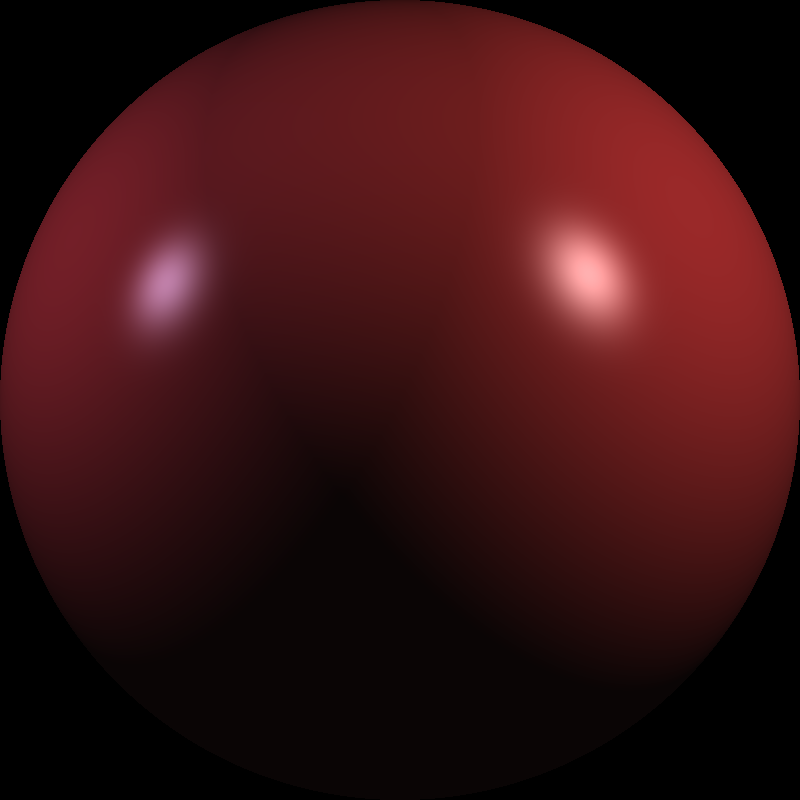
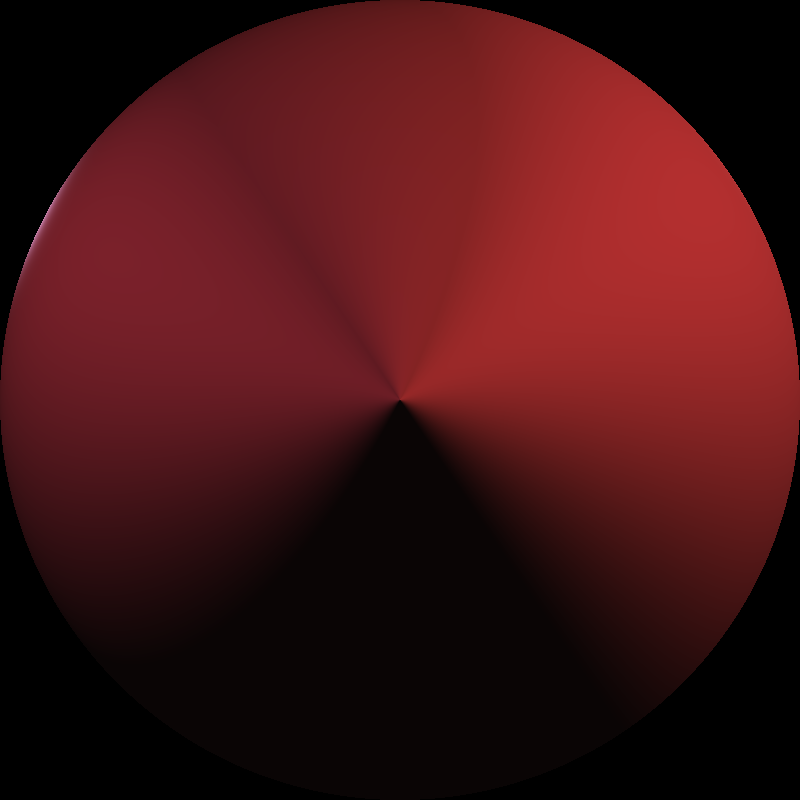
prawie final lista6

Changed region(s): [[0.1562, 0.0, 1.0, 0.7812], [0.0312, 0.2188, 0.0938, 0.3438], [0.8438, 0.7812, 0.9062, 0.8438]]

diff --git a/Rendering_with_Phong_lighting_model/src/Renderer.java b/Rendering_with_Phong_lighting_model/src/Renderer.java
@@ -3,34 +3,32 @@ import java.awt.image.BufferedImage;
 
 class Renderer {
     public BufferedImage render(Scene scene) {
-        int n = scene.imageWidth; // Zakładamy, że obraz jest kwadratowy
+        int n = scene.imageWidth;
         BufferedImage image = new BufferedImage(n, n, BufferedImage.TYPE_INT_RGB);
 
         double radius = scene.sphere.radius;
 
-        for (int i = 0; i < n; i++) {         // i = wiersz (pion)
-            for (int j = 0; j < n; j++) {     // j = kolumna (poziom)
+        for (int i = 0; i < n; i++) {
+            for (int j = 0; j < n; j++) {
 
-                // Oblicz współrzędne środka piksela na ekranie
                 double world_x = -radius + (2 * radius * (j + 0.5)) / n;
                 double world_y = radius - (2 * radius * (i + 0.5)) / n;
                 double wolrd_z = -radius;
 
-                // Równoległe promienie mają ten sam kierunek
+
                 Vector3 direction = new Vector3(0, 0, 1);
                 Vector3 rayOrigin = new Vector3(world_x, world_y, wolrd_z);
 
                 Ray ray = new Ray(rayOrigin, direction);
                 Vector3 color = traceRay(ray, scene);
 
-                // Ogranicz wartości kolorów do [0, 1]
+
                 color = new Vector3(
                         Math.min(1, Math.max(0, color.x)),
                         Math.min(1, Math.max(0, color.y)),
                         Math.min(1, Math.max(0, color.z))
                 );
 
-                // Konwertuj kolor do RGB int
                 int r = (int) (color.x * 255);
                 int g = (int) (color.y * 255);
                 int b = (int) (color.z * 255);
@@ -45,56 +43,53 @@ class Renderer {
 
     private Vector3 traceRay(Ray ray, Scene scene) {
         double[] t = new double[1];
+
         if (scene.sphere.intersect(ray, t)) {
-            // Oblicz punkt przecięcia
-            Vector3 hitPoint = ray.origin.add(ray.direction.multiply(t[0]));
 
-            // Oblicz normalną w punkcie przecięcia (uproszczone dla kuli o środku w (0,0,0))
-            Vector3 normal = hitPoint.normalize(); // Dla kuli w (0,0,0) normalna to po prostu znormalizowany wektor pozycji
+            Vector3 hitPoint = new Vector3(ray.origin.x, ray.origin.y, ray.origin.z + t[0]);
 
-            // Pobierz właściwości materiału
+            Vector3 normal = hitPoint.normalize();
+
             Material material = scene.sphere.material;
 
-            // Kierunek patrzenia (od punktu przecięcia do kamery)
-            Vector3 viewDir = ray.origin.subtract(hitPoint).normalize();
+            Vector3 viewDir = new Vector3(0, 0, -1);
 
-            // Inicjalizacja kolorem własnego świecenia
+
+            // Oc
             Vector3 color = material.selfLuminance;
 
-            // Dodaj składową światła otoczenia
+            //kaC * Ac
             color = color.add(new Vector3(
                     material.ambientCoeff.x * scene.ambientLight.x,
                     material.ambientCoeff.y * scene.ambientLight.y,
                     material.ambientCoeff.z * scene.ambientLight.z
             ));
 
-            // Dodaj wkład od każdego źródła światła
+
             for (PointLight light : scene.lights) {
-                // Oblicz kierunek światła
                 Vector3 lightDir = light.position.subtract(hitPoint).normalize();
 
-                // Odległość do światła
+                //fan(r)
                 double distToLight = Math.sqrt(light.position.subtract(hitPoint).dot(
                         light.position.subtract(hitPoint)));
 
-                // Oblicz tłumienie światła (uproszczona wersja)
-                double attenuation = Math.min(1.0, 1.0 / (1.0 + 0.1 * distToLight + 0.01 * distToLight * distToLight));
+                double c1 = 0.05;
+                double c2 = 0.005;
+                double attenuation = Math.min(1.0, 1.0 / (1.0 + c1 * distToLight + c2 * distToLight * distToLight));
 
-                // Odbicie dyfuzyjne
+
+                //diffuse
                 double diffuseFactor = Math.max(0, normal.dot(lightDir));
 
-                // Odbicie lustrzane
-                Vector3 reflectedLight = lightDir.multiply(-1).reflect(normal);
-                double specularFactor = Math.pow(Math.max(0, reflectedLight.dot(viewDir)), material.glossiness);
-
-                // Dodaj składową dyfuzyjną
                 color = color.add(new Vector3(
                         material.diffuseCoeff.x * light.intensity.x * diffuseFactor * attenuation,
                         material.diffuseCoeff.y * light.intensity.y * diffuseFactor * attenuation,
                         material.diffuseCoeff.z * light.intensity.z * diffuseFactor * attenuation
                 ));
 
-                // Dodaj składową lustrzaną
+                Vector3 reflectedLight = lightDir.multiply(-1).reflect(normal);
+                double specularFactor = Math.pow(Math.max(0, reflectedLight.dot(viewDir)), material.glossiness);
+
                 color = color.add(new Vector3(
                         material.specularCoeff.x * light.intensity.x * specularFactor * attenuation,
                         material.specularCoeff.y * light.intensity.y * specularFactor * attenuation,
@@ -104,7 +99,6 @@ class Renderer {
             return color;
         }
 
-        // Brak przecięcia, zwróć czarny (kolor tła)
         return new Vector3(0, 0, 0);
     }
 

diff --git a/Rendering_with_Phong_lighting_model/src/SceneLoader.java b/Rendering_with_Phong_lighting_model/src/SceneLoader.java
@@ -22,7 +22,7 @@ class SceneLoader {
         try (Scanner scanner = new Scanner(new File(fileName))) {
             scanner.useLocale(java.util.Locale.US);
 
-            // Znajdź liczbę świateł (pomijaj komentarze)
+            // Find number of lights
             int numLights = 0;
             while (scanner.hasNextLine()) {
                 String line = scanner.nextLine().trim();
@@ -31,7 +31,7 @@ class SceneLoader {
                 break;
             }
 
-            // Wczytaj światła
+            // Load lights
             for (int i = 0; i < numLights; i++) {
                 double[] values = readNextDoubles(scanner, 6);
                 scene.lights.add(new PointLight(
@@ -40,10 +40,10 @@ class SceneLoader {
                 ));
             }
 
-            // Wczytaj właściwości kuli
+            //Load sphere properties
             double[] sphereValues = readNextDoubles(scanner, 4);
 
-            // Wczytaj właściwości materiału
+            //Load material properties
             double[] kd = readNextDoubles(scanner, 3); // difuzja
             double[] ks = readNextDoubles(scanner, 3); // odbicia lustrzane
             double[] ka = readNextDoubles(scanner, 3); // światło otoczenia
@@ -63,16 +63,16 @@ class SceneLoader {
                     material
             );
 
-            // Wczytaj natężenie światła otoczenia
+            //Load ambient light
             double[] ambient = readNextDoubles(scanner, 3);
             scene.ambientLight = new Vector3(ambient[0], ambient[1], ambient[2]);
 
-            // Wczytaj rozdzielczość obrazu
+            // Load resolution
             int[] resolution = readNextInts(scanner, 2);
             scene.imageWidth = resolution[0];
             scene.imageHeight = resolution[1];
 
-            // Wczytaj nazwę pliku wyjściowego
+            // Load output file name
             while (scanner.hasNextLine()) {
                 String line = scanner.nextLine().trim();
                 if (line.isEmpty() || line.startsWith("#")) continue;

diff --git a/Rendering_with_Phong_lighting_model/src/PhongSphereRaytracer.java b/Rendering_with_Phong_lighting_model/src/PhongSphereRaytracer.java
@@ -9,7 +9,7 @@ import javax.swing.WindowConstants;
 
 public class PhongSphereRaytracer {
     public static void main(String[] args) {
-        // Pokaż dialog wyboru pliku
+
         JFileChooser fileChooser = new JFileChooser();
         fileChooser.setDialogTitle("Wybierz plik sceny");
         fileChooser.setFileFilter(new FileNameExtensionFilter("Pliki tekstowe (*.txt)", "txt"));
@@ -21,8 +21,6 @@ public class PhongSphereRaytracer {
         }
 
         String sceneFile = fileChooser.getSelectedFile().getAbsolutePath();
-
-        // Załaduj scenę i renderuj
         SceneLoader loader = new SceneLoader();
         Scene scene = loader.loadScene(sceneFile);
 
@@ -35,7 +33,6 @@ public class PhongSphereRaytracer {
         BufferedImage image = renderer.render(scene);
 
         try {
-            // Wyświetl obraz
             JFrame frame = new JFrame("Phong Sphere Raytracer");
             frame.setDefaultCloseOperation(WindowConstants.EXIT_ON_CLOSE);
             frame.setLocationRelativeTo(null);
@@ -43,7 +40,6 @@ public class PhongSphereRaytracer {
             frame.pack();
             frame.setVisible(true);
 
-            // Zapisz obraz
             File outputFile = new File(scene.outputFileName);
             String fileExtension = scene.outputFileName.substring(scene.outputFileName.lastIndexOf('.') + 1);
             ImageIO.write(image, fileExtension.toUpperCase(), outputFile);

diff --git a/Rendering_with_Phong_lighting_model/src/RayTracingObjects.java b/Rendering_with_Phong_lighting_model/src/RayTracingObjects.java
@@ -40,38 +40,17 @@ class Sphere {
     }
 
     public boolean intersect(Ray ray, double[] t) {
-        // Założenie: środek kuli jest w (0,0,0), więc vector 'oc' to po prostu ray.origin
-        Vector3 oc = ray.origin;
-
-        double a = ray.direction.dot(ray.direction);
-        double b = 2.0 * oc.dot(ray.direction);
-        double c = oc.dot(oc) - radius * radius; // oc.dot(oc) to kwadrat długości wektora oc
-
-        double discriminant = b * b - 4 * a * c;
-        if (discriminant < 0) return false;
-
-        double sqrtDiscriminant = Math.sqrt(discriminant);
-        double t0 = (-b - sqrtDiscriminant) / (2 * a);
-        double t1 = (-b + sqrtDiscriminant) / (2 * a);
-
-        if (t0 > t1) {
-            double temp = t0;
-            t0 = t1;
-            t1 = temp;
+        double x = ray.origin.x;
+        double y = ray.origin.y;
+        // x^2 + y^2 < r^2
+        if (x*x + y*y >= radius*radius) {
+            return false;
         }
-
-        if (t0 < 0) {
-            t0 = t1;
-            if (t0 < 0) return false;
-        }
-
-        t[0] = t0;
+        // t = r - sqrt(r^2 - x^2 - y^2)
+        t[0] = radius - Math.sqrt(radius*radius - x*x - y*y);
         return true;
     }
 
-    public Vector3 getNormalAt(Vector3 point) {
-        return point.subtract(center).normalize();
-    }
 }
 
 // PointLight class
